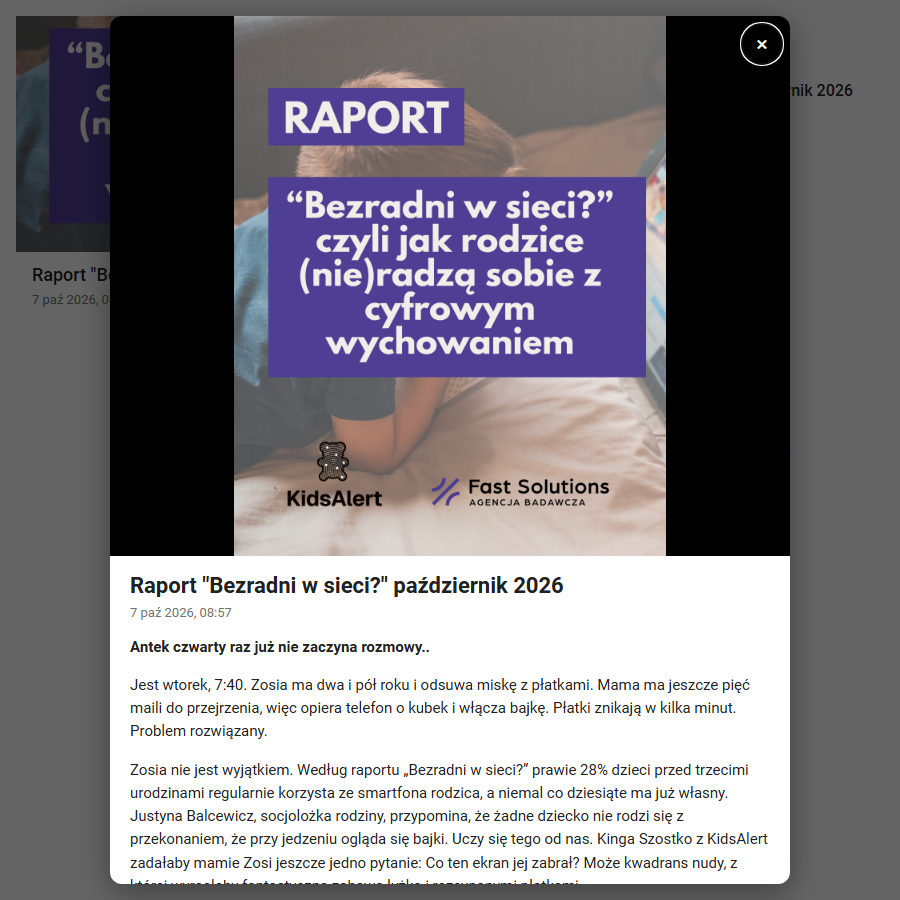
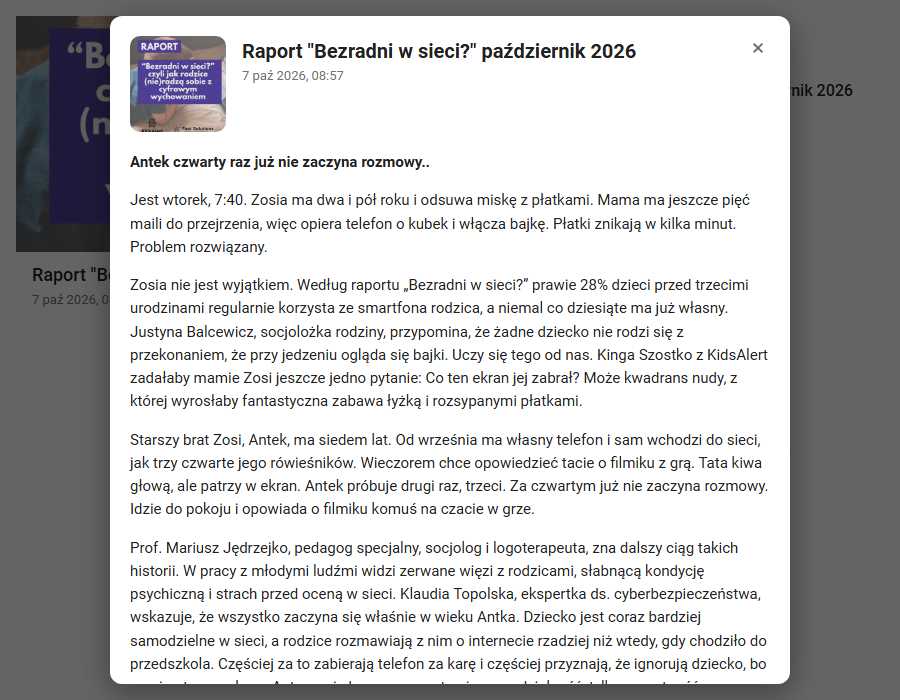
Show a thumbnail beside the title in the alert dialog
The full-width image pushed the text below the fold. The header now holds
a small thumbnail next to the title and date; the image opens full size on
tap and videos sit behind a toggle. Sensitive images are revealed first.
Focus moves to the dialog instead of the close button. Bump to 0.1.1.

diff --git a/custom_components/kidsalert/frontend/kidsalert-card.js b/custom_components/kidsalert/frontend/kidsalert-card.js
@@ -1,6 +1,6 @@
 /* KidsAlert dashboard cards, served and registered by the kidsalert integration. */
 
-const VERSION = "0.1.0";
+const VERSION = "0.1.1";
 const DOMAIN = "kidsalert";
 
 const STRINGS = {
@@ -17,6 +17,8 @@ const STRINGS = {
     no_entry: "Nie znaleziono integracji KidsAlert. Dodaj ją w Ustawienia → Urządzenia i usługi.",
     error: "Nie udało się pobrać alertów",
     close: "Zamknij",
+    video: "Wideo",
+    hide_video: "Ukryj wideo",
     entity: "Encja (KidsAlert – ostatni alert)",
     title: "Tytuł karty",
     show_image: "Pokaż obrazek",
@@ -38,6 +40,8 @@ const STRINGS = {
     no_entry: "KidsAlert integration not found. Add it under Settings → Devices & services.",
     error: "Could not load alerts",
     close: "Close",
+    video: "Video",
+    hide_video: "Hide video",
     entity: "Entity (KidsAlert latest alert)",
     title: "Card title",
     show_image: "Show image",
@@ -264,64 +268,102 @@ class KidsAlertDialog extends HTMLElement {
   _render(alert, loading, failed = false) {
     const hass = this.hass;
     const image = safeUrl(alert.image);
+    const thumb = safeUrl(alert.thumbnail) || image;
     const video = safeUrl(alert.video);
     const hidden = alert.is_sensitive && !this._revealed;
-    let media = "";
-    if (video) {
-      media = `<video class="media" controls preload="metadata" src="${esc(video)}" ${image ? `poster="${esc(image)}"` : ""}></video>`;
-    } else if (image) {
-      media = `<div class="media-wrap ${hidden ? "clickable" : ""}" ${hidden ? 'role="button" tabindex="0"' : ""}>
-          <img class="media ${hidden ? "blur" : ""}" src="${esc(image)}" alt="" referrerpolicy="no-referrer">
-          ${hidden ? `<div class="veil">${esc(tr(hass, "sensitive"))}<br><small>${esc(tr(hass, "reveal"))}</small></div>` : ""}
-        </div>`;
-    }
     this.shadowRoot.innerHTML = `
       <style>
         ${BASE_STYLE}
         .backdrop { position: fixed; inset: 0; z-index: 1000; background: rgba(0,0,0,.6); display: flex; align-items: center; justify-content: center; padding: 16px; box-sizing: border-box; }
-        .panel { position: relative; width: min(680px, 100%); max-height: calc(100vh - 32px); overflow-y: auto; border-radius: var(--ha-card-border-radius, 12px); background: var(--card-background-color, var(--ha-card-background, #fff)); color: var(--primary-text-color); box-shadow: 0 8px 32px rgba(0,0,0,.4); }
+        .panel { width: min(680px, 100%); max-height: calc(100vh - 32px); overflow-y: auto; border-radius: var(--ha-card-border-radius, 12px); background: var(--card-background-color, var(--ha-card-background, #fff)); color: var(--primary-text-color); box-shadow: 0 8px 32px rgba(0,0,0,.4); }
         .panel.danger { border-top: 6px solid var(--error-color, #db4437); }
-        .close { position: absolute; top: 8px; right: 8px; z-index: 2; width: 40px; height: 40px; border: none; border-radius: 50%; background: rgba(0,0,0,.45); color: #fff; font-size: 22px; line-height: 40px; cursor: pointer; }
-        .media-wrap { position: relative; overflow: hidden; }
-        .media { display: block; width: 100%; max-height: 60vh; object-fit: contain; background: #000; }
-        .veil { position: absolute; inset: 0; display: flex; flex-direction: column; align-items: center; justify-content: center; color: #fff; font-weight: 600; text-align: center; background: rgba(0,0,0,.35); }
-        .body { padding: 16px 20px 24px; }
-        .badges { display: flex; gap: 6px; margin-bottom: 8px; }
-        h2 { margin: 0 0 4px; font-size: 22px; line-height: 1.3; }
-        .content { margin-top: 16px; line-height: 1.55; font-size: 15px; overflow-wrap: anywhere; }
+        .panel:focus { outline: none; }
+        .head { display: flex; gap: 16px; align-items: flex-start; padding: 20px 12px 0 20px; }
+        .thumb { position: relative; flex: 0 0 96px; width: 96px; height: 96px; padding: 0; border: none; border-radius: 10px; overflow: hidden; cursor: zoom-in; background: var(--secondary-background-color, #eee); }
+        .thumb img { width: 100%; height: 100%; object-fit: cover; display: block; transition: filter .2s; }
+        .thumb .veil { position: absolute; inset: 0; display: flex; align-items: center; justify-content: center; padding: 4px; color: #fff; font-size: 11px; font-weight: 600; line-height: 1.2; text-align: center; background: rgba(0,0,0,.35); }
+        .thumb:not(.hidden) .veil { display: none; }
+        .thumb.hidden { cursor: pointer; }
+        .thumb.hidden img { filter: blur(12px); transform: scale(1.1); }
+        .thumb:focus-visible, .chip:focus-visible, .close:focus-visible { outline: 2px solid var(--primary-color); outline-offset: 2px; }
+        .heading { flex: 1; min-width: 0; padding-top: 2px; }
+        .badges { display: flex; flex-wrap: wrap; gap: 6px; margin-bottom: 6px; }
+        h2 { margin: 0 0 4px; font-size: 20px; line-height: 1.3; overflow-wrap: anywhere; }
+        .chip { margin-top: 10px; padding: 6px 12px; border: 1px solid var(--divider-color, rgba(0,0,0,.12)); border-radius: 999px; background: none; color: var(--primary-color); font: inherit; font-size: 13px; font-weight: 500; cursor: pointer; }
+        .close { flex: 0 0 40px; width: 40px; height: 40px; margin-top: -8px; border: none; border-radius: 50%; background: none; color: var(--secondary-text-color); font-size: 24px; line-height: 40px; cursor: pointer; }
+        .close:hover, .chip:hover { background: var(--secondary-background-color, rgba(0,0,0,.06)); }
+        .full { margin: 16px 20px 0; border-radius: 10px; overflow: hidden; background: #000; }
+        .full img, .full video { display: block; width: 100%; max-height: 60vh; object-fit: contain; }
+        .full img { cursor: zoom-out; }
+        [hidden] { display: none !important; }
+        .content { padding: 4px 20px 24px; line-height: 1.55; font-size: 15px; overflow-wrap: anywhere; }
         .content img { max-width: 100%; height: auto; }
         .content a { color: var(--primary-color); }
+        @media (max-width: 480px) {
+          .head { gap: 12px; padding: 16px 8px 0 16px; }
+          .thumb { flex-basis: 72px; width: 72px; height: 72px; }
+          h2 { font-size: 18px; }
+          .full { margin: 12px 16px 0; }
+          .content { padding: 4px 16px 20px; }
+        }
       </style>
       <div class="backdrop">
-        <div class="panel ${alert.is_danger ? "danger" : ""}" role="dialog" aria-modal="true" aria-label="${esc(alert.title)}">
-          <button class="close" aria-label="${esc(tr(hass, "close"))}">×</button>
-          ${media}
-          <div class="body">
-            ${alert.is_danger || alert.is_sensitive ? `<div class="badges">
-              ${alert.is_danger ? `<span class="badge">${esc(tr(hass, "danger"))}</span>` : ""}
-              ${alert.is_sensitive ? `<span class="badge sensitive">${esc(tr(hass, "sensitive"))}</span>` : ""}
-            </div>` : ""}
-            <h2>${esc(alert.title)}</h2>
-            <div class="meta">${esc(formatDate(hass, alert.sent_at))}</div>
-            <div class="content">${loading ? `<p class="meta">${esc(tr(hass, "loading"))}</p>` : ""}${failed ? `<p class="state error">${esc(tr(hass, "error"))}</p>` : ""}</div>
+        <div class="panel ${alert.is_danger ? "danger" : ""}" role="dialog" aria-modal="true" aria-label="${esc(alert.title)}" tabindex="-1">
+          <div class="head">
+            ${thumb ? `<button class="thumb ${hidden ? "hidden" : ""}" aria-label="${esc(tr(hass, hidden ? "reveal" : "show_image"))}">
+              <img src="${esc(thumb)}" alt="" referrerpolicy="no-referrer">
+              <span class="veil">${esc(tr(hass, "sensitive"))}</span>
+            </button>` : ""}
+            <div class="heading">
+              ${alert.is_danger || alert.is_sensitive ? `<div class="badges">
+                ${alert.is_danger ? `<span class="badge">${esc(tr(hass, "danger"))}</span>` : ""}
+                ${alert.is_sensitive ? `<span class="badge sensitive">${esc(tr(hass, "sensitive"))}</span>` : ""}
+              </div>` : ""}
+              <h2>${esc(alert.title)}</h2>
+              <div class="meta">${esc(formatDate(hass, alert.sent_at))}</div>
+              ${video ? `<button class="chip video-toggle" aria-expanded="false">▶ ${esc(tr(hass, "video"))}</button>` : ""}
+            </div>
+            <button class="close" aria-label="${esc(tr(hass, "close"))}">×</button>
           </div>
+          ${image ? `<div class="full image" hidden><img src="${esc(image)}" alt="" referrerpolicy="no-referrer"></div>` : ""}
+          ${video ? `<div class="full video" hidden><video controls preload="none" src="${esc(video)}" ${image ? `poster="${esc(image)}"` : ""}></video></div>` : ""}
+          <div class="content">${loading ? `<p class="meta">${esc(tr(hass, "loading"))}</p>` : ""}${failed ? `<p class="state error">${esc(tr(hass, "error"))}</p>` : ""}</div>
         </div>
       </div>`;
-    if (!loading && !failed) this.shadowRoot.querySelector(".content").appendChild(sanitizeHtml(alert.content));
-    this._alert = alert;
     const root = this.shadowRoot;
+    if (!loading && !failed) root.querySelector(".content").appendChild(sanitizeHtml(alert.content));
     root.querySelector(".backdrop").addEventListener("click", (ev) => ev.target === ev.currentTarget && this.close());
     root.querySelector(".close").addEventListener("click", () => this.close());
-    const veil = root.querySelector(".media-wrap.clickable");
-    if (veil) {
-      const reveal = () => {
+
+    const thumbButton = root.querySelector(".thumb");
+    const fullImage = root.querySelector(".full.image");
+    thumbButton?.addEventListener("click", () => {
+      // A sensitive image is revealed first; after that the thumbnail opens the full image.
+      if (thumbButton.classList.contains("hidden")) {
         this._revealed = true;
-        this._render(this._alert, loading, failed);
-      };
-      veil.addEventListener("click", reveal);
-      veil.addEventListener("keydown", (ev) => (ev.key === "Enter" || ev.key === " ") && reveal());
-    }
-    root.querySelector(".close").focus({ preventScroll: true });
+        thumbButton.classList.remove("hidden");
+        thumbButton.setAttribute("aria-label", tr(hass, "show_image"));
+      } else if (fullImage) {
+        fullImage.hidden = !fullImage.hidden;
+      }
+    });
+    fullImage?.addEventListener("click", () => {
+      fullImage.hidden = true;
+    });
+
+    const videoToggle = root.querySelector(".video-toggle");
+    const videoBox = root.querySelector(".full.video");
+    videoToggle?.addEventListener("click", () => {
+      const player = videoBox.querySelector("video");
+      videoBox.hidden = !videoBox.hidden;
+      videoToggle.setAttribute("aria-expanded", String(!videoBox.hidden));
+      videoToggle.textContent = videoBox.hidden ? `▶ ${tr(hass, "video")}` : `■ ${tr(hass, "hide_video")}`;
+      if (videoBox.hidden) player.pause();
+      else player.play().catch(() => {});
+    });
+
+    // Focus the dialog itself so keyboard users land inside it without a ring on the close button.
+    root.querySelector(".panel").focus({ preventScroll: true });
   }
 }
 

diff --git a/custom_components/kidsalert/const.py b/custom_components/kidsalert/const.py
@@ -5,7 +5,7 @@ from __future__ import annotations
 from typing import Final
 
 DOMAIN: Final = "kidsalert"
-VERSION: Final = "0.1.0"
+VERSION: Final = "0.1.1"
 
 API_BASE_URL: Final = "https://kidsalert.pl"
 

diff --git a/CHANGELOG.md b/CHANGELOG.md
@@ -6,6 +6,13 @@ All notable changes to this project are documented here. The format follows
 
 ## [Unreleased]
 
+## [0.1.1] - 2026-10-10
+
+### Changed
+
+- Alert details dialog: a small image next to the title and date, with the text below. Tapping the image opens it full size, and videos open from a ▶ Video button instead of taking up the top of the dialog.
+- The dialog takes keyboard focus itself instead of the close button.
+
 ## [0.1.0] - 2026-10-09
 
 ### Added
@@ -17,5 +24,6 @@ All notable changes to this project are documented here. The format follows
 - Notification blueprint.
 - Diagnostics and brand icons.
 
-[Unreleased]: https://github.com/MichalZaniewicz/ha-kidsalert/compare/v0.1.0...HEAD
+[Unreleased]: https://github.com/MichalZaniewicz/ha-kidsalert/compare/v0.1.1...HEAD
+[0.1.1]: https://github.com/MichalZaniewicz/ha-kidsalert/compare/v0.1.0...v0.1.1
 [0.1.0]: https://github.com/MichalZaniewicz/ha-kidsalert/releases/tag/v0.1.0
